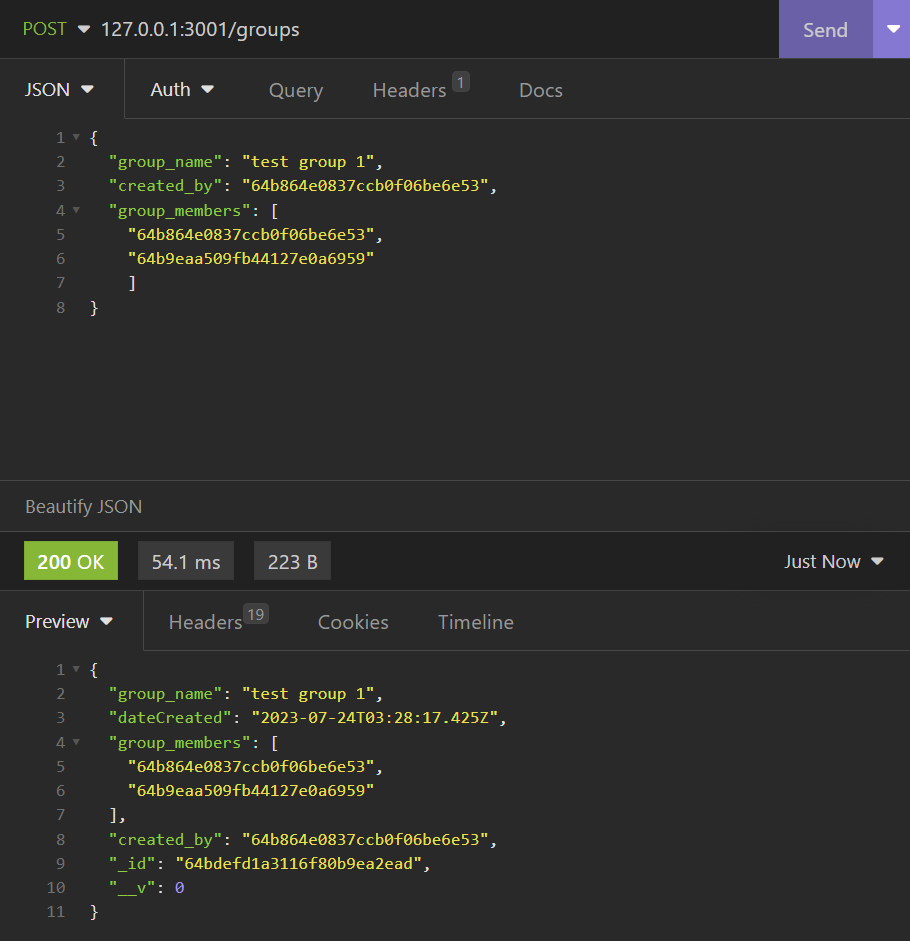
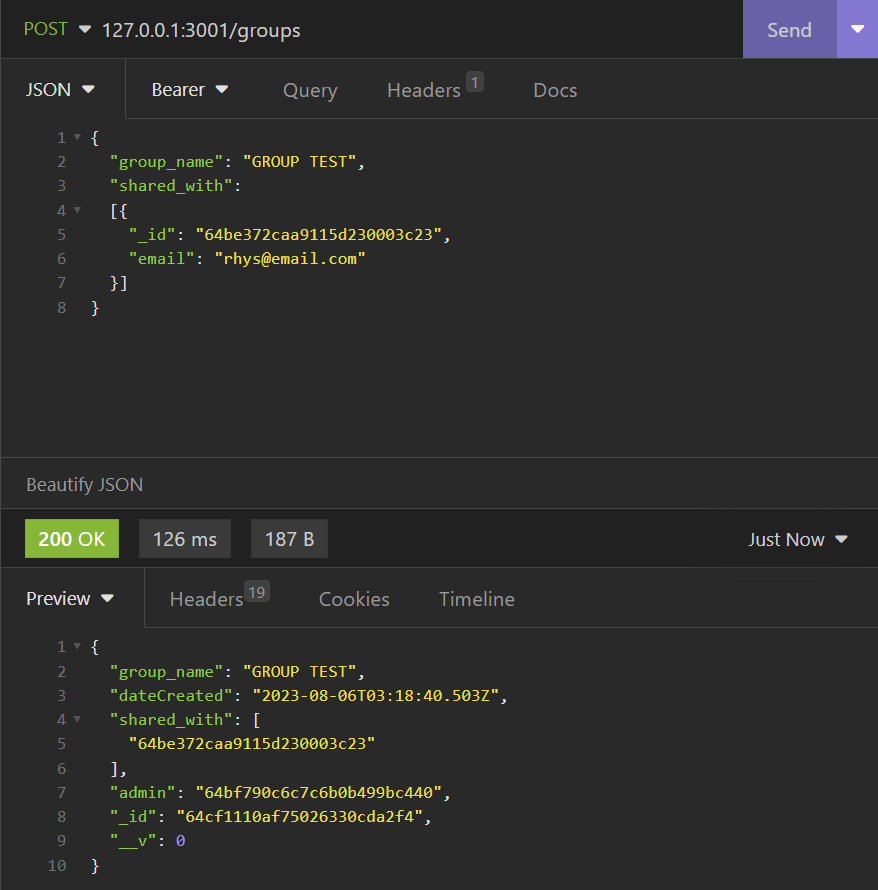
Backend testing documentation is completed

diff --git a/readme.md b/readme.md
@@ -11,28 +11,40 @@ https://github.com/Final-Full-Stack-Project-Team
 
 There are 4x collections in the database. The collections are:
 - groups
-- items
 - lists
 - users
 
 The screenshots below show testing for all CRUD functionality of the backend.
 
+All CRUD operations for all collections are not possible without user authentication using tokens. This ensures that users are only receiving their own data, and not other users data <br><br>
+When an request unsuccessful due to invalid token:
+
+![Alt text](docs/Backend-testing/Groups/Get-Group-Invalid-Token.png)
+
+When an request is successful with a valid token:
+
+![Alt text](docs/Backend-testing/Groups/Get-Group-Valid-Token.png)
+
 ## Users Collection
 
 ### User Sign up
 
-User sign up requires the name field to not be blank, the email address to meet requirements (cannot contain spaces, must contain '@' and '.') and the password to meet requirements (contain at least 8 characters, a capital letter, and a number)
+User sign up requires the name field to contain a name without being left empty, the email address to meet requirements (cannot contain spaces, must contain '@' and '.') and the password to meet requirements (contain at least 8 characters, a capital letter, and a number)
 
 When name is blank:
+
 ![Alt text](docs/Backend-testing/Users/Sign-up-blank-name.png)
 
 When email contains a space, does not contain a '@', '.' or is blank:
+
 ![Alt text](docs/Backend-testing/Users/Sign-up-bad-email.png)
 
 When password does not contain at least 8 characters, a capital letter, and a number:
+
 ![Alt text](docs/Backend-testing/Users/Sign-up-bad-password.png)
 
 When signup is successful:
+
 ![Alt text](docs/Backend-testing/Users/Sign-up-success.png)
 
 ### User Login
@@ -40,45 +52,52 @@ When signup is successful:
 User login requires correct username and password. 
 
 When logging in with incorrect credentials:
+
 ![Alt text](docs/Backend-testing/Users/Login-invalid.png)
 
-When logging in successfully:
+When logging in successfully it returns the user token which is used for authentication:
+
 ![Alt text](docs/Backend-testing/Users/Login-success.png)
 
 
 ### GET users
 
 GET all users:
+
 ![Alt text](docs/Backend-testing/Users/Get-all-users.png)
 
 GET user with id:
 
 When getting user with invalid ID:
+
 ![Alt text](docs/Backend-testing/Users/Get-user-not-found.png)
 
 When getting user with a valid ID:
+
 ![Alt text](docs/Backend-testing/Users/Get-user-success.png)
 
 ## Groups Collection
 
-Groups are for the purpose of easily sharing lists with regular users. This means that if a user wants to frequently share lists with the same people, they do not need to enter their email address each time as those people will reside in the existing group that the user has created. When creating a group, the group name and at least one member is required.
+Groups are for the purpose of easily sharing lists with users. This means that if a user wants to frequently share lists with the same people, they do not need to enter their email address each time as those people will reside in the existing group that the user has created. When creating a group, the group name and at least one member is required.
+Getting data requires the user to be logged in and authentication is processed using their login token 
 
 ### POST Group
 
 When group name is left blank, has a single white space or multiple white spaces:
+
 ![Alt text](docs/Backend-testing/Groups/New-Group-blank-name.png)
 
 ![Alt text](docs/Backend-testing/Groups/New-Group-blank-name-single-space.png)
 
 ![Alt text](docs/Backend-testing/Groups/New-Group-blank-name-multiple-spaces.png)
 
-When group creator is left blank:
-![Alt text](docs/Backend-testing/Groups/New-Group-blank-creator.png)
-
 When group members is left blank:
+
 ![Alt text](docs/Backend-testing/Groups/New-Group-no-members.png)
 
+A Group creator is also made the admin automatically. Only the admin can delete the group. 
 When creating a group successfully:
+
 ![Alt text](docs/Backend-testing/Groups/New-Group-success.png)
 
 ### GET Groups
@@ -89,9 +108,11 @@ GET all Groups:
 GET user with id:
 
 When getting user with invalid ID:
+
 ![Alt text](docs/Backend-testing/Groups/Get-group-invalid-id.png)
 
 When getting user with a valid ID:
+
 ![Alt text](docs/Backend-testing/Groups/Get-group-valid-id.png)
 
 ### PUT Groups
@@ -100,9 +121,11 @@ A group's name and its members can be edited.
 A group's name cannot be edited to be blank or contain only white spaces. A group cannot be edited to contain no members as a group must have at least one member. A group's name can be changed without the need to change its members. A group's members can be changed without the need to change the its name. And both the group's name and its members can be changed in the same request.
 
 When group ID cannot be found:
+
 ![Alt text](docs/Backend-testing/Groups/Put-Groups-invalid-id.png)
 
 When changing a group's name to be empty or only contains a single white space or multiple white spaces:
+
 ![Alt text](docs/Backend-testing/Groups/Put-Group-name-empty.png)
 
 ![Alt text](docs/Backend-testing/Groups/Put-Group-name-single-space.png)
@@ -110,18 +133,23 @@ When changing a group's name to be empty or only contains a single white space o
 ![Alt text](docs/Backend-testing/Groups/Put-Group-name-many-spaces.png)
 
 When editing a group's name is successful:
+
 ![Alt text](docs/Backend-testing/Groups/Put-Group-name.png)
 
 When editing a group's members with a group member that is not found:
+
 ![Alt text](docs/Backend-testing/Groups/Put-Group-member-not-found.png)
 
 When editing a group's members and not having at least one group member:
+
 ![Alt text](docs/Backend-testing/Groups/Put-Group-members-empty.png)
 
 When editing group members is successful:
+
 ![Alt text](docs/Backend-testing/Groups/Put-Group-members.png)
 
-When editing both a group's name and its members are successful
+When editing both a group's name and its members are successful:
+
 ![Alt text](docs/Backend-testing/Groups/Put-Group-name-and-members.png)
 
 ### DELETE Groups
@@ -129,23 +157,111 @@ When editing both a group's name and its members are successful
 A single group can be deleted with a group ID, or all groups can be deleted.
 
 When attempting to delete a group with an invalid ID:
+
 ![Alt text](docs/Backend-testing/Groups/Delete-Group-invalid-id.png)
 
 When deleting a single group is successful:
+
 ![Alt text](docs/Backend-testing/Groups/Delete-Group-success.png)
 
 When deleting all groups, a successful deletion responds with information about how many groups were deleted.
 
 When there are no groups to delete:
+
 ![Alt text](docs/Backend-testing/Groups/Delete-Groups-no-groups.png)
 
 When there was only 1 group to delete:
+
 ![Alt text](docs/Backend-testing/Groups/Delete-Groups-single.png)
 
 When there were multiple groups to delete:
+
 ![Alt text](docs/Backend-testing/Groups/Delete-Groups-multiple.png)
 
 
+## Lists Collection
+### POST list
+
+Lists require a name and an admin.
+
+When name is blank:
+
+![Alt text](docs/Backend-testing/Lists/New-List-No-Name.png)
+
+When there is no admin:
+
+![Alt text](docs/Backend-testing/Lists/New-List-No-Admin.png)
+
+When POST list is successful:
+![Alt text](docs/Backend-testing/Lists/New-List-Success.png)
+
+### GET all lists
+
+Whilst lists have their own collection, items do not. Any item added to a list is stored in that the list document with its own ID. This means that users can add whatever items they want to their list and items are not being duplicated in the database.
+
+If items were stored in their own collection, this would mean that if there are 1,000 users who add an item called "Apples", then there would be an items collection which has 1,000 different documents with the same name and different ID which would not be and efficient way to manage database storage. 
+
+With this method, a new ID is created for each apple but they are being added to the list document that already exists and any item that resides in a list is deleted from the when a user deletes the list.
+
+Getting all lists returns the following:
+
+- User ID
+- List name
+- Date created
+- isCompleted
+- list admin
+- the items that are in the list
+
+![Alt text](docs/Backend-testing/Lists/Get-All-Lists-Success.png)
+
+### GET list
+
+Get list returns the same thing.
+
+When get list is unsuccessful:
+
+![Alt text](docs/Backend-testing/Lists/Get-List-unsuccessful.png)
+
+When get list is successful:
+
+![Alt text](docs/Backend-testing/Lists/Get-List-Success.png)
+
+### UPDATE list
+
+A list can have its name updated and the items within the list added or removed
+
+When name is blank:
+
+![Alt text](docs/Backend-testing/Lists/Modifty-list-name-fail.png)
+
+When name change is successful:
+
+![Alt text](docs/Backend-testing/Lists/Modifty-list-name-success.png)
+
+When list is not found:
+
+![Alt text](docs/Backend-testing/Lists/Modifty-list-items-fail.png)
+
+When changing items is successful:
+
+![Alt text](docs/Backend-testing/Lists/Modifty-list-items-success.png)
+
+### DELETE list
+
+Only one list can be deleted at a time.
+
+When delete list is unsuccessful:
+
+![Alt text](docs/Backend-testing/Lists/Delete-List-unsuccessful.png)
+
+When delete list is successful:
+
+![Alt text](docs/Backend-testing/Lists/Delete-List-success.png)
+
+
+## Items Collection
+
+### POST Group
 <br>
 <br>
 <br>
